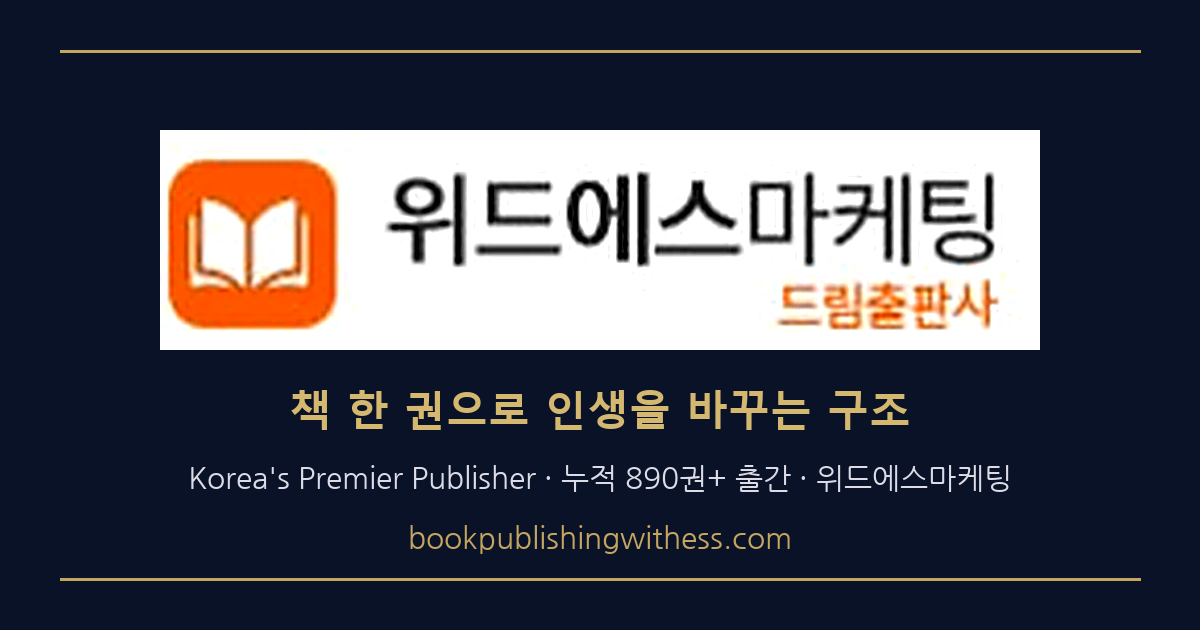
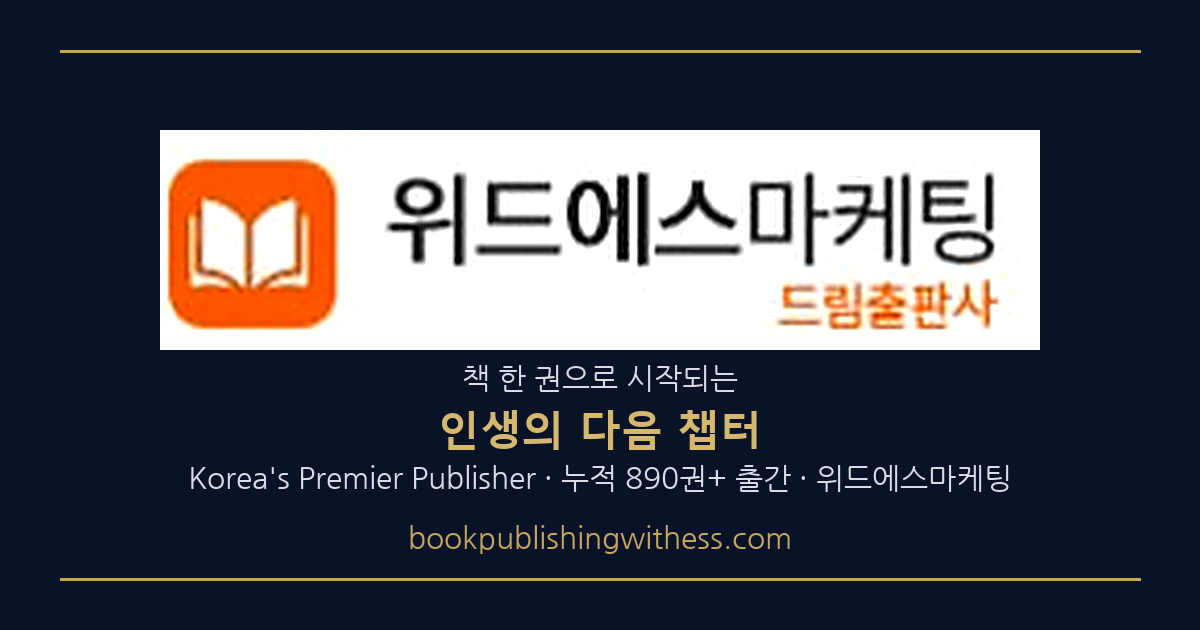
feat(copy): 메인 카피 '인생을 바꾸는 구조' → '시작되는 인생의 다음 챕터'
- i18n dict 4언어 (ko/en/zh/ja) hero.title1/2/titleEm 모두 교체
  · ko: 책 한 권으로 시작되는 / 인생의 / 다음 챕터
  · en: One book opens / the next chapter of / your life
  · zh: 一本书,开启 / 您人生的 / 新篇章
  · ja: 一冊の本から始まる / あなたの人生の / 次の章
- layout.tsx: title default + OG title + Twitter title + description + alt 모두 교체
- og-image.png 재생성: 두 줄 슬로건('책 한 권으로 시작되는' + '인생의 다음 챕터')
- OG image URL에 ?v=2 cache bust query 추가 → 카톡·페이스북·네이버 캐시 강제 무효화

Changed region(s): [[0.2467, 0.573, 0.7708, 0.7238]]

diff --git a/app/layout.tsx b/app/layout.tsx
@@ -8,11 +8,11 @@ const SITE_URL = "https://www.bookpublishingwithess.com";
 export const metadata: Metadata = {
   metadataBase: new URL(SITE_URL),
   title: {
-    default: "드림위드에스 출판사 | 위드에스마케팅 — 책 한 권으로 인생을 바꾸는 구조",
+    default: "드림위드에스 출판사 | 위드에스마케팅 — 책 한 권으로 시작되는 인생의 다음 챕터",
     template: "%s | 드림위드에스 출판사",
   },
   description:
-    "드림위드에스 출판사 | 누적 890권+ 출간 · 베스트셀러 다수 배출. 책 출판·자서전·자비출판·논문 컨설팅 전문. 인터뷰 기반 집필 + 표절 검수 전담팀 + 출판→마케팅→강연·사업 확장까지 원스톱. 강남 위치, 정가의 45% 인세, 3개월 출간. 책 한 권으로 인생을 바꾸는 구조.",
+    "드림위드에스 출판사 | 누적 890권+ 출간 · 베스트셀러 다수 배출. 책 출판·자서전·자비출판·논문 컨설팅 전문. 인터뷰 기반 집필 + 표절 검수 전담팀 + 출판→마케팅→강연·사업 확장까지 원스톱. 강남 위치, 정가의 45% 인세, 3개월 출간. 책 한 권으로 시작되는 인생의 다음 챕터.",
   applicationName: "드림위드에스 출판사",
   authors: [{ name: "드림위드에스 출판사", url: SITE_URL }],
   generator: "Next.js",
@@ -51,7 +51,7 @@ export const metadata: Metadata = {
     },
   },
   openGraph: {
-    title: "드림위드에스 출판사 | 책 한 권으로 인생을 바꾸는 구조",
+    title: "드림위드에스 출판사 | 책 한 권으로 시작되는 인생의 다음 챕터",
     description:
       "누적 890권+ 출간. 인터뷰 기반 출판 + 표절 검수 전담팀 + 마케팅·강연 원스톱. 자서전·자비출판·논문 컨설팅 전문.",
     url: SITE_URL,
@@ -61,19 +61,19 @@ export const metadata: Metadata = {
     alternateLocale: ["en_US", "zh_CN", "ja_JP"],
     images: [
       {
-        url: `${SITE_URL}/og-image.png`,
+        url: `${SITE_URL}/og-image.png?v=2`,
         width: 1200,
         height: 630,
-        alt: "드림위드에스 출판사 — 책 한 권으로 인생을 바꾸는 구조",
+        alt: "드림위드에스 출판사 — 책 한 권으로 시작되는 인생의 다음 챕터",
         type: "image/png",
       },
     ],
   },
   twitter: {
     card: "summary_large_image",
-    title: "드림위드에스 출판사 | 책 한 권으로 인생을 바꾸는 구조",
+    title: "드림위드에스 출판사 | 책 한 권으로 시작되는 인생의 다음 챕터",
     description: "누적 890권+ 출간. 인터뷰 기반 출판 + 마케팅·강연 원스톱.",
-    images: [`${SITE_URL}/og-image.png`],
+    images: [`${SITE_URL}/og-image.png?v=2`],
   },
   icons: {
     icon: [
@@ -171,7 +171,7 @@ const localBusinessJsonLd = {
   "@context": "https://schema.org",
   "@type": "LocalBusiness",
   name: "드림위드에스 출판사",
-  image: `${SITE_URL}/og-image.png`,
+  image: `${SITE_URL}/og-image.png?v=2`,
   "@id": SITE_URL,
   url: SITE_URL,
   telephone: "+82-10-2068-0817",

diff --git a/lib/i18n.ts b/lib/i18n.ts
@@ -33,9 +33,9 @@ const ko: Dict = {
 
   // Hero
   "hero.eyebrow": "COMPANY · 위드에스마케팅 · 더컬쳐앤",
-  "hero.title1": "책 한 권으로",
-  "hero.title2": "인생을 바꾸는",
-  "hero.titleEm": "구조",
+  "hero.title1": "책 한 권으로 시작되는",
+  "hero.title2": "인생의",
+  "hero.titleEm": "다음 챕터",
   "hero.sub1": "출판부터 브랜딩·마케팅·강연·커뮤니티까지",
   "hero.sub2": "저자의 인생을 단계별로 함께 설계하는 올인원 브랜드 빌딩 파트너",
   "hero.cta.contact": "간편 문의하기 →",
@@ -216,9 +216,9 @@ const en: Dict = {
   "nav.consult": "Get a Quote",
 
   "hero.eyebrow": "COMPANY · WITH-ESS MARKETING · THE CULTUREN",
-  "hero.title1": "One book",
-  "hero.title2": "changes",
-  "hero.titleEm": "everything",
+  "hero.title1": "One book opens",
+  "hero.title2": "the next chapter of",
+  "hero.titleEm": "your life",
   "hero.sub1": "From publishing to branding, marketing, speaking, and community —",
   "hero.sub2": "the all-in-one partner that designs an author's life step by step.",
   "hero.cta.contact": "Get a Quote →",
@@ -386,9 +386,9 @@ const zh: Dict = {
   "nav.consult": "咨询报价",
 
   "hero.eyebrow": "公司 · 韩国 WITH-ESS MARKETING · The Culturen",
-  "hero.title1": "一本书",
-  "hero.title2": "改变人生的",
-  "hero.titleEm": "结构",
+  "hero.title1": "一本书,开启",
+  "hero.title2": "您人生的",
+  "hero.titleEm": "新篇章",
   "hero.sub1": "从出版到品牌、营销、演讲、社群 —",
   "hero.sub2": "为作者量身打造全方位品牌建设的合作伙伴。",
   "hero.cta.contact": "立即咨询 →",
@@ -556,9 +556,9 @@ const ja: Dict = {
   "nav.consult": "相談申込",
 
   "hero.eyebrow": "COMPANY · 韓国 WITH-ESS MARKETING · The Culturen",
-  "hero.title1": "一冊の本で",
-  "hero.title2": "人生を変える",
-  "hero.titleEm": "仕組み",
+  "hero.title1": "一冊の本から始まる",
+  "hero.title2": "あなたの人生の",
+  "hero.titleEm": "次の章",
   "hero.sub1": "出版からブランディング・マーケティング・講演・コミュニティまで —",
   "hero.sub2": "著者の人生を段階的に共に設計するオールインワン・ブランド構築パートナー。",
   "hero.cta.contact": "簡単お問い合わせ →",
